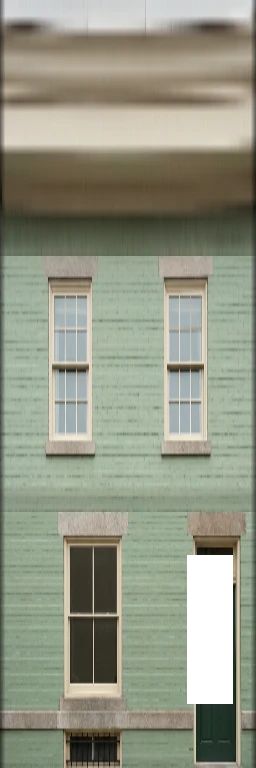
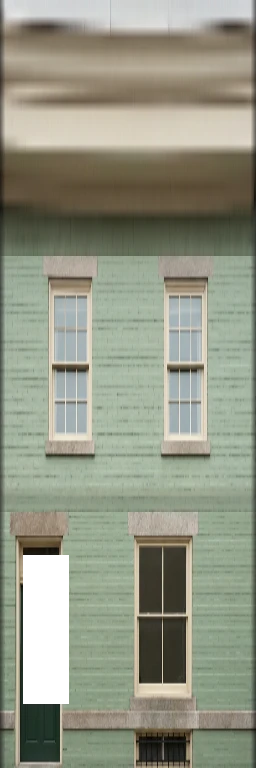
fix(openworld): a facade's u runs to the viewer's right, the building's -z: the openings, the corner store's door and the rowhome pictures are laid that way round; docs

diff --git a/src/game/present/facade-openings.test.ts b/src/game/present/facade-openings.test.ts
@@ -11,6 +11,7 @@ import type { PrefabMaterials } from "./prefab-pieces.ts";
 import { makePrefabMaterials, prefabParts, raceTextures } from "./prefabs.ts";
 
 /** The styles whose ground band is cut open, with the interior behind them, and the world height of that band (m): a home's ground storey and a shop's. */
+/** A face's layer runs to the viewer's right, the building's local -z: the plan's `across` is measured the other way. */
 const OPEN_STYLES: Record<string, { kind: InteriorKind; floorY: number; ground: number }> = {
   rowbrick: { kind: "rowhome", floorY: ROWHOME_FLOOR_Y, ground: 3.6 },
   rowpainted: { kind: "rowhome", floorY: ROWHOME_FLOOR_Y, ground: 3.6 },
@@ -48,12 +49,12 @@ describe("given the facade styles of the places that have interiors", () => {
     expect(FACADE_LAYERS.rowhouse.open, "a style that was there before").toBeUndefined();
   });
 
-  // mutation: sed -i 's/{ centre: -0.9, width: 0.9, sill: 0, top: 2.1, door: true }/{ centre: -1.9, width: 0.9, sill: 0, top: 2.1, door: true }/' src/game/world/openworld/interior-kinds.ts
+  // mutation: sed -i 's/{ centre: 0.9, width: 0.9, sill: 0, top: 2.1, door: true }/{ centre: -1.9, width: 0.9, sill: 0, top: 2.1, door: true }/' src/game/world/openworld/interior-kinds.ts
   it("when the packed albedo is read at each doorway and window of the plan, then it is cut open there at body height, solid at the bay's edge, and the other layers have no opening", async () => {
     for (const [style, open] of Object.entries(OPEN_STYLES)) {
       const alpha = await alphaOf(style);
       for (const opening of SHOPFRONT[open.kind]) {
-        const u = (opening.centre + BAY_WIDTH / 2) / BAY_WIDTH;
+        const u = (BAY_WIDTH / 2 - opening.centre) / BAY_WIDTH;
         const body = open.floorY + Math.max(opening.sill, 0) + Math.min(1, (opening.top - opening.sill) / 2);
         const v = body / open.ground;
         expect(alpha.at(LAYER.ground, u, v), `${style} alpha in the ${opening.door ? "doorway" : "window"} at u ${u.toFixed(2)}`).toBeLessThan(CUT);

diff --git a/src/game/present/interiors/interior-art.test.ts b/src/game/present/interiors/interior-art.test.ts
@@ -1,4 +1,5 @@
 import { describe, expect, it } from "vitest";
+import { FRAME_HZ } from "../../kernel/constants.ts";
 import { layOutLots } from "../../world/openworld/openworld-lots.ts";
 import { buildOpenWorldMap } from "../../world/openworld/openworld-map.ts";
 import type { InteriorSolid } from "../../world/openworld/interior-plan.ts";
@@ -9,7 +10,7 @@ const map = buildOpenWorldMap(layOutLots());
 const coffee = map.places.find((place) => place.interior === "coffee" && place.doorNode >= 0)!;
 /** The map with the one coffee shop: nothing else comes into range as the eye walks about. */
 const lone = { ...map, places: [coffee] };
-const FRAME = 1 / 60;
+const FRAME = 1 / FRAME_HZ;
 /** Frames enough for the budgeted builds to cover the whole map. */
 const SETTLE_FRAMES = 200;
 /** Where the eye is out of every interior's range. */

diff --git a/src/game/world/openworld/interior-kinds.ts b/src/game/world/openworld/interior-kinds.ts
@@ -157,8 +157,8 @@ export const SHOPFRONT = {
     { centre: 1.8, width: 1.8, sill: 0.3, top: 2.7, door: false },
   ],
   store: [
-    { centre: -0.9, width: 0.9, sill: 0, top: 2.1, door: true },
-    { centre: 1.1, width: 2.8, sill: 0.65, top: 2.4, door: false },
+    { centre: 0.9, width: 0.9, sill: 0, top: 2.1, door: true },
+    { centre: -1.1, width: 2.8, sill: 0.65, top: 2.4, door: false },
   ],
 } as const satisfies Record<InteriorKind, readonly BayOpening[]>;
 

diff --git a/src/game/world/openworld/interior-layouts.ts b/src/game/world/openworld/interior-layouts.ts
@@ -187,6 +187,6 @@ export function layoutStore(d: Draft): void {
   for (const across of [-3.5, -2.7, -1.9, -1.1]) d.put("fridge", 0, 14.3, across, toStreet);
   d.put("counter", 0, 12.4, 3.2, toStreet, { width: 3.6 });
   d.put("backShelf", 0, 14.4, 3.2, toStreet, { width: 3.6 });
-  d.put("neon", 0, 0.45, -1.7, toStreet, { lift: 1.7 });
+  d.put("neon", 0, 0.45, -3.9, toStreet, { lift: 1.7 });
   for (const deep of [3, 7, 11]) d.lamp(0, deep, 0.5);
 }

diff --git a/docs/OPEN_WORLD.md b/docs/OPEN_WORLD.md
@@ -114,6 +114,8 @@ the **seats** (`Place.seats`: x, z, yaw, height; a rowhome's two stoop seats lea
 The **doorways and shop windows are cut through the facade's ground band** (`SHOPFRONT` per interior; `scripts/pack-facades.mjs` zeroes the ground layer's albedo alpha there and the shader discards it), so the interior is seen from the street and a door leads into it. `InteriorSet` (one per map) keeps the
 ground floor's envelope of every place within `SHELL_NEAR` of the eye, so no opening shows through to the world, and the furnished interior within `INTERIOR_NEAR`; both are dropped after the eye has been past their far radius for `INTERIOR_LINGER`. Everything is merged into three meshes (envelopes, furniture, lamps and screens): the draw calls do not grow with the interiors.
 
+**Walking in.** A place with an interior stands in a drawn-only `buildingShell` (a `building` with no collider), and its ground floor's street, party and back walls are invisible-wall props (`interiorEnvelopeProps`, merged along each row of houses) that are whole but for the doorways, so a car is stopped and a walker passes a door. The rest (slabs, stairs, furniture) reaches the physics as fixed boxes, handed over by `InteriorSet.onSolids` while the eye is within `SOLIDS_NEAR`.
+
 ## Where it lives
 
 | Piece | File |
